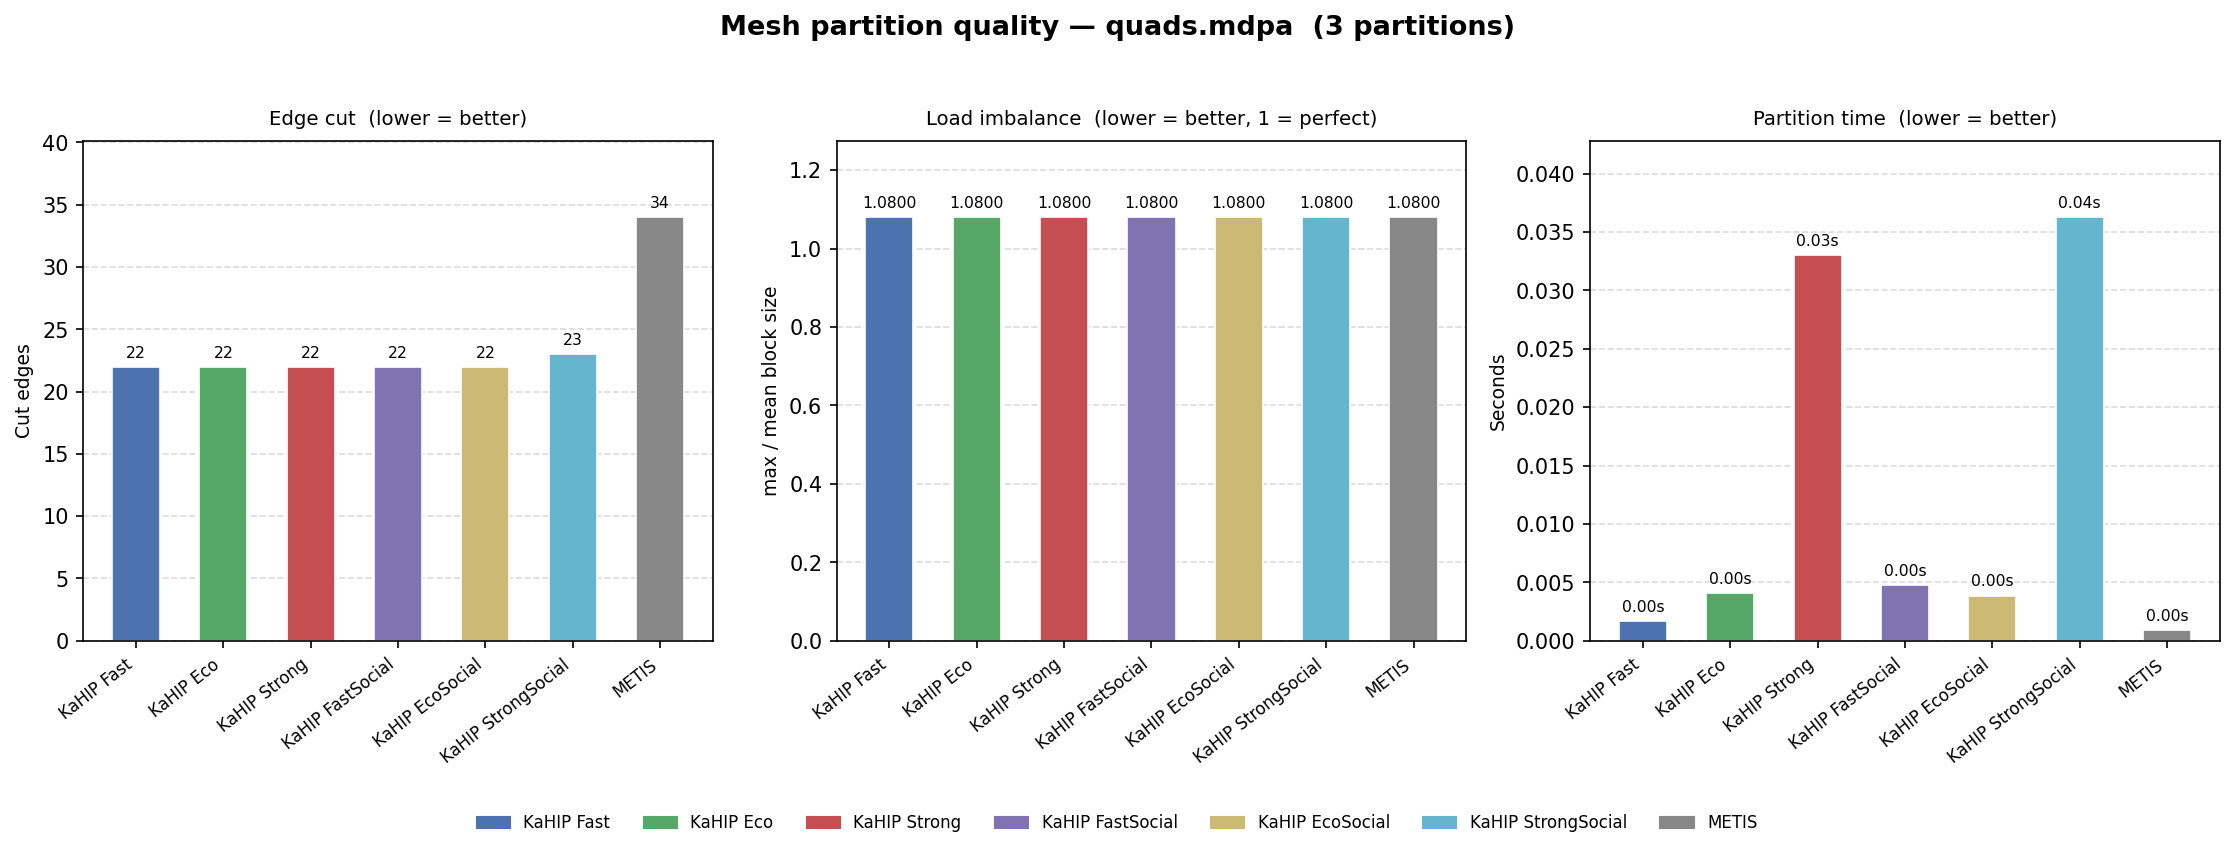
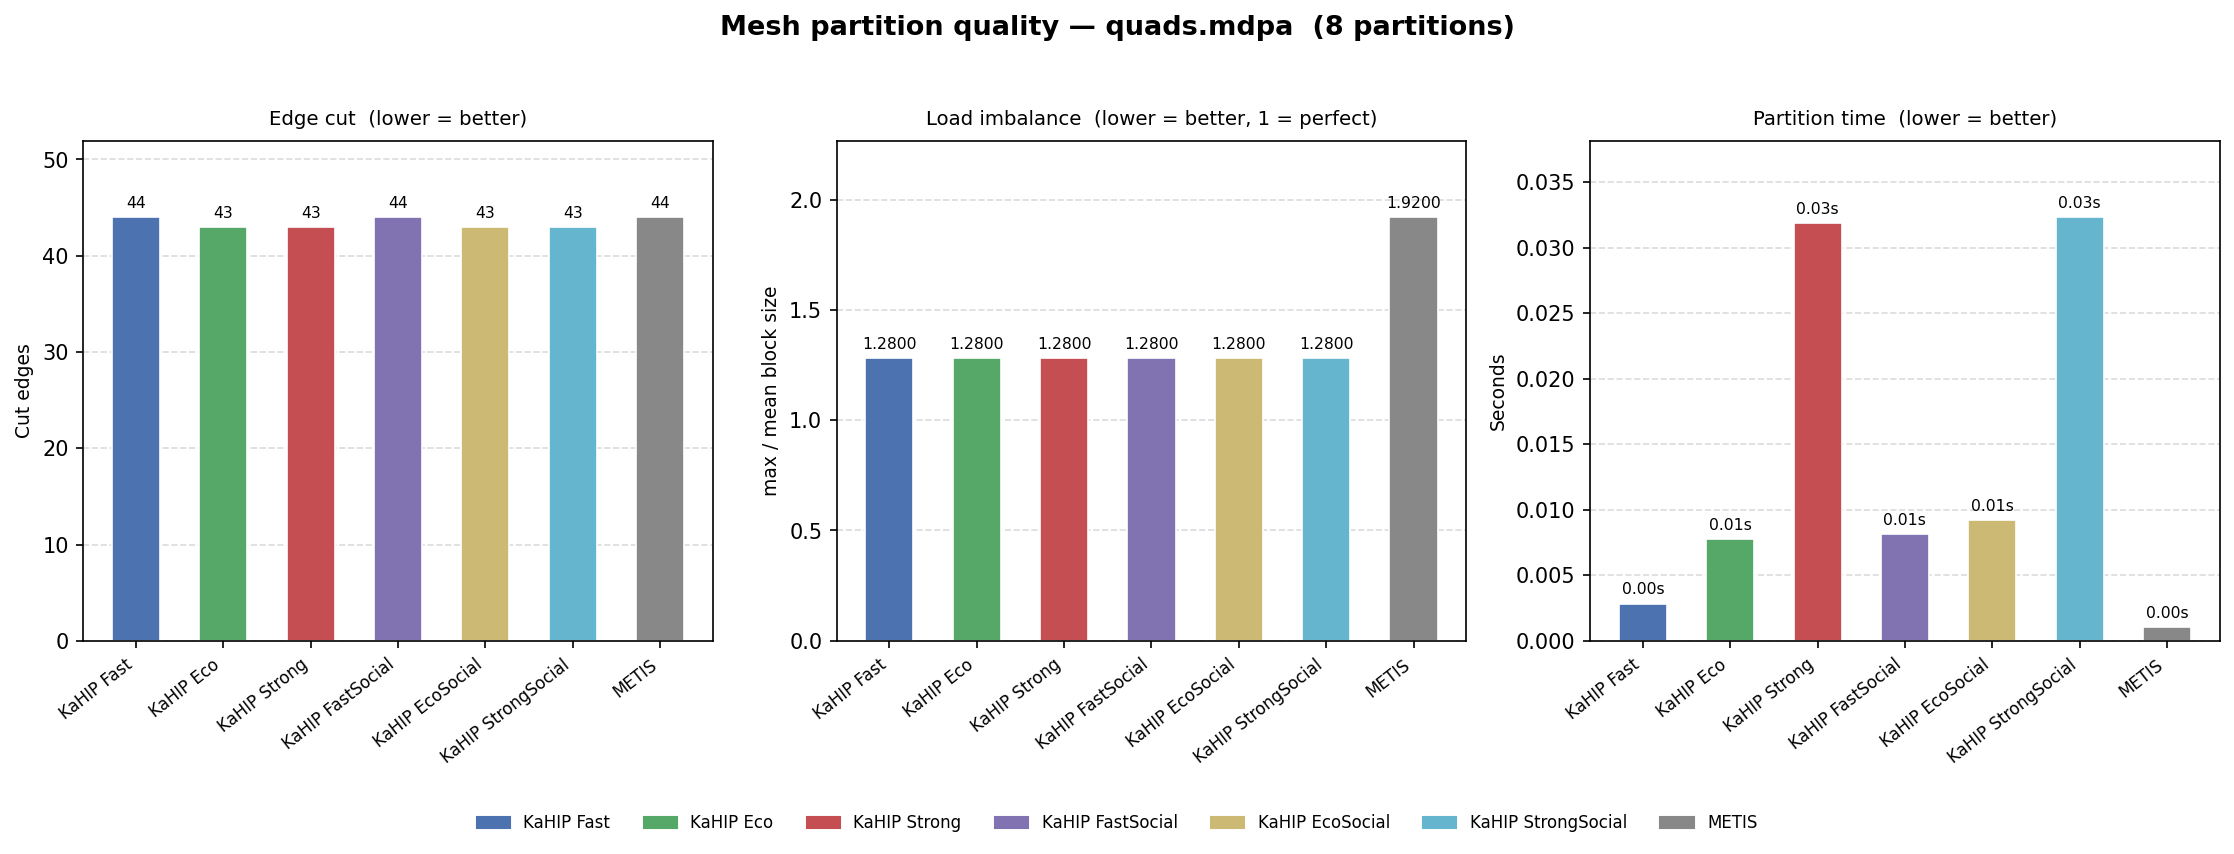
Update benchmark results and images for cube and quads meshes; increase partitions from 4 to 8

diff --git a/applications/KaHIPApplication/test_examples/README.md b/applications/KaHIPApplication/test_examples/README.md
@@ -13,33 +13,33 @@ Example meshes for testing and benchmarking the KaHIPApplication.
 
 ## Pre-generated benchmark results
 
-### `cube.mdpa` — 4 partitions, 3 trials per KaHIP strategy, 1991 nodal edges
+### `cube.mdpa` — 8 partitions, 3 trials per KaHIP strategy, 1991 nodal edges
 
 | Strategy | Edge cut | Imbalance | Time (s) |
 |---|---|---|---|
-| fast | 423 | 1.0266 | 0.035 |
-| eco | 421 | 1.0266 | 0.078 |
-| strong | 439 | 1.0266 | 0.414 |
-| fastsocial | 479 | 1.0266 | 0.035 |
-| ecosocial | 432 | 1.0266 | 0.047 |
-| strongsocial | 450 | 1.0266 | 0.297 |
-| **metis** | **379** | **1.0266** | **0.018** |
+| fast | 646 | 1.0266 | 0.057 |
+| eco | 642 | 1.0266 | 0.148 |
+| **strong** | **627** | **1.0266** | 0.808 |
+| fastsocial | 714 | 1.0266 | 0.057 |
+| ecosocial | 718 | 1.0073 | 0.092 |
+| strongsocial | 664 | 1.0266 | 0.368 |
+| metis | 653 | 1.0460 | 0.024 |
 
-Best edge cut: **METIS** (379).  Best KaHIP strategy: **eco** (421).  Fastest: **METIS** (0.018 s).
+Best edge cut: **KaHIP Strong** (627).  Best balance: **KaHIP EcoSocial** (1.0073).  Fastest: **METIS** (0.024 s).
 
-### `quads.mdpa` — 3 partitions, 3 trials per KaHIP strategy, 72 nodal edges
+### `quads.mdpa` — 8 partitions, 3 trials per KaHIP strategy, 72 nodal edges
 
 | Strategy | Edge cut | Imbalance | Time (s) |
 |---|---|---|---|
-| fast | 22 | 1.0800 | 0.002 |
-| eco | 22 | 1.0800 | 0.004 |
-| strong | 22 | 1.0800 | 0.033 |
-| fastsocial | 22 | 1.0800 | 0.005 |
-| ecosocial | 22 | 1.0800 | 0.004 |
-| strongsocial | 23 | 1.0800 | 0.036 |
-| **metis** | 34 | 1.0800 | 0.001 |
+| fast | 44 | 1.2800 | 0.003 |
+| **eco** | **43** | **1.2800** | 0.008 |
+| **strong** | **43** | **1.2800** | 0.032 |
+| fastsocial | 44 | 1.2800 | 0.008 |
+| **ecosocial** | **43** | **1.2800** | 0.009 |
+| **strongsocial** | **43** | **1.2800** | 0.032 |
+| metis | 44 | 1.9200 | 0.001 |
 
-Best edge cut: **KaHIP fast/eco/strong/fastsocial/ecosocial** (22).  Fastest: **METIS** (0.001 s).
+Best edge cut: **KaHIP eco/strong/ecosocial/strongsocial** (43).  Best balance: **KaHIP** strategies (1.2800 vs METIS 1.9200).  Fastest: **METIS** (0.001 s).
 
 > Results produced on the bundled meshes with all 6 KaHIP preconfigurations
 > and MetisApplication as a baseline.  See `cube_partition_quality.png` and

diff --git a/applications/KaHIPApplication/doc/quality_comparison.md b/applications/KaHIPApplication/doc/quality_comparison.md
@@ -75,26 +75,26 @@ It also prints a table to stdout:
   KaHIP Partition Quality Comparison
 ============================================================
   Mesh       : .../test_examples/cube.mdpa
-  Partitions : 4
+  Partitions : 8
   Nodal edges: 1991
 
 Strategy        Edge cut     Imbalance     Time (s)
 ------------------------------------------------------
-fast                 423        1.0266        0.035
-eco                  421        1.0266        0.078
-strong               439        1.0266        0.414
-fastsocial           479        1.0266        0.035
-ecosocial            432        1.0266        0.047
-strongsocial         450        1.0266        0.297
-metis                379        1.0266        0.018
+fast                 646        1.0266        0.057
+eco                  642        1.0266        0.148
+strong               627        1.0266        0.808
+fastsocial           714        1.0266        0.057
+ecosocial            718        1.0073        0.092
+strongsocial         664        1.0266        0.368
+metis                653        1.0460        0.024
 ------------------------------------------------------
-  Best edge cut  : KaHIP eco   (421 cut edges)
-  Best balance   : all strategies tied (imbalance = 1.0266)
-  Fastest        : METIS (0.018 s)
+  Best edge cut  : KaHIP Strong (627 cut edges)
+  Best balance   : KaHIP EcoSocial (imbalance = 1.0073)
+  Fastest        : METIS (0.024 s)
 ```
 
 > **Note:** The results above were produced on the bundled `cube.mdpa` mesh
-> (413 nodes, 1191 tetrahedra, 4 partitions, 3 trials per KaHIP strategy).
+> (413 nodes, 1191 tetrahedra, 8 partitions, 3 trials per KaHIP strategy).
 > Pre-generated plots are saved alongside the mesh in `test_examples/`.
 
 ---

diff --git a/applications/KaHIPApplication/README.md b/applications/KaHIPApplication/README.md
@@ -280,14 +280,14 @@ the ones in `MetisApplication/tests/`) and pre-generated benchmark plots:
 
 `cube.mdpa` is the default input for the quality comparison script.
 
-### Benchmark highlights (cube.mdpa, 4 partitions)
+### Benchmark highlights (cube.mdpa, 8 partitions)
 
 | Strategy | Edge cut | Imbalance | Time (s) |
 |---|---|---|---|
-| fast | 423 | 1.0266 | 0.035 |
-| eco | 421 | 1.0266 | 0.078 |
-| strong | 439 | 1.0266 | 0.414 |
-| **metis** | **379** | **1.0266** | **0.018** |
+| fast | 646 | 1.0266 | 0.057 |
+| eco | 642 | 1.0266 | 0.148 |
+| **strong** | **627** | **1.0266** | 0.808 |
+| metis | 653 | 1.0460 | 0.024 |
 
 See [`test_examples/README.md`](test_examples/README.md) for the full tables
 and [`doc/quality_comparison.md`](doc/quality_comparison.md) for the tool